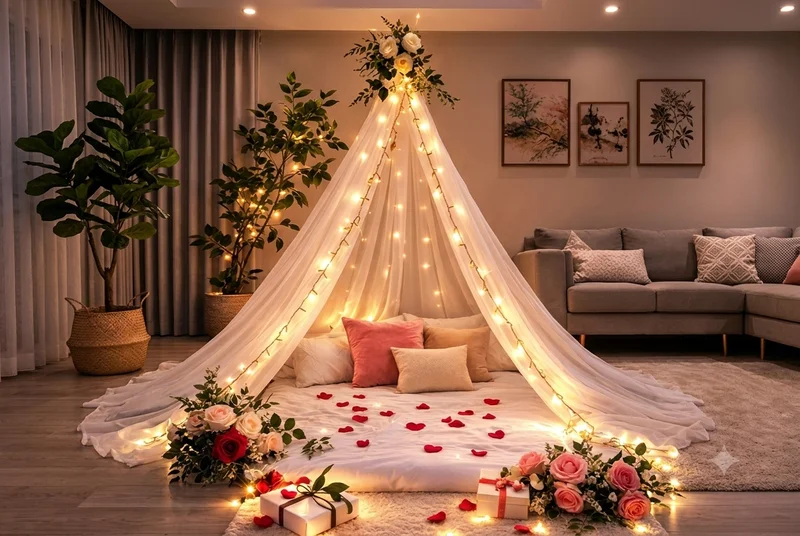
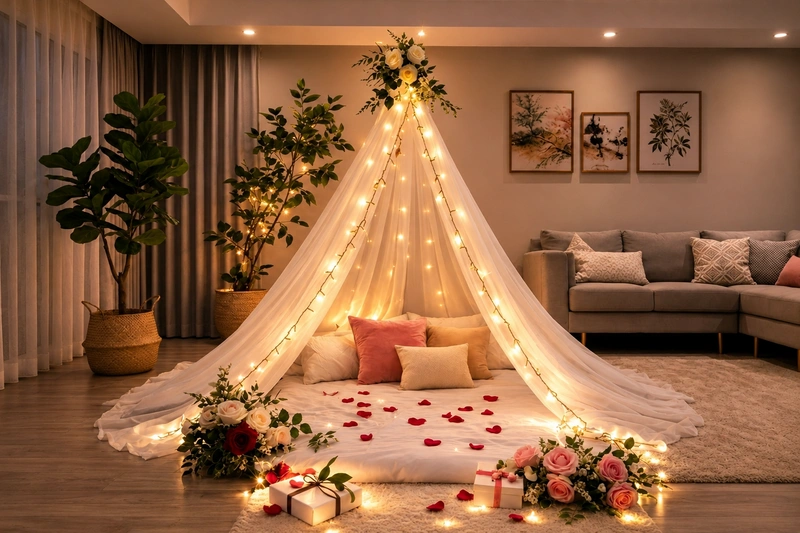
Auto-update: Thu 09/03/2026 13:56:43.41

diff --git a/i.py b/i.py
@@ -5,7 +5,7 @@ from PIL import Image
 # Configuration
 INPUT_DIR = "static/images"   # folder containing original images
 OUTPUT_DIR = INPUT_DIR                     # overwrite with webp (you can backup first)
-QUALITY = 85                               # WebP quality (0-100)
+QUALITY = 95                               # WebP quality (0-100)
 TARGET_SIZES = {
     # pattern: (max_width, max_height)
     "hero-event-scene": (1200, 800),       # hero image – displayed ~746x420 -> 2x = 1492x840
